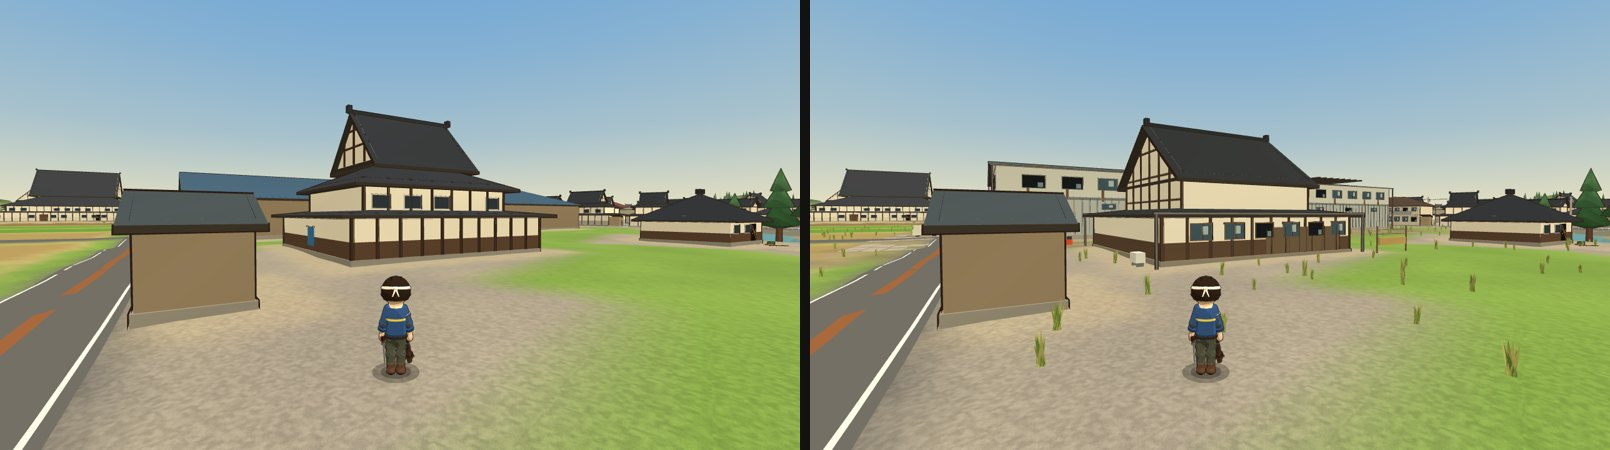
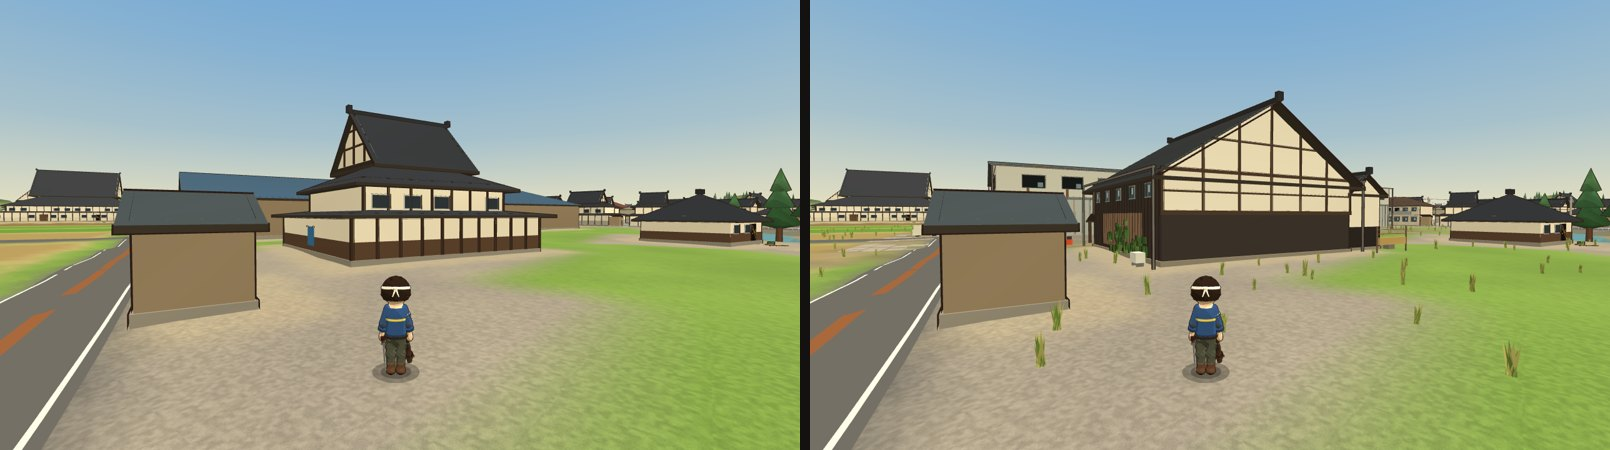
P3-A 報告の更新：回答の記録・屑鉄の案・家並みとスズキの反映・比較画像（B3 を追加）・性能・回帰テスト
Claude-Session: https://claude.ai/code/session_01L9Z7sRJGJCfBXsbyK8HGuW

Changed region(s): [[0.6522, 0.1867, 0.8696, 0.5911]]

diff --git a/docs/p3a-report.md b/docs/p3a-report.md
@@ -66,13 +66,15 @@
 - **部屋の並びは案。** 指示書 §27-5 のとおり確定しない。
 
 ### B：周辺住宅（`p3aHouse`・`p3aBuildHouses`）
-- 本部の南の通り（道551）沿いの8棟だけ、種類を分けて作り直した：農家（2階建て・平屋）・現代の家2種・農業倉庫（納屋）・車庫・物置・店。
-  - 農家：白壁・柱・腰板・黒い瓦・引き戸の玄関と庇・閉まったままの雨戸・2階建ては低い下屋の上に2階の壁と**束と貫の格子の妻壁**（福井県「ふくいの伝統的民家」の永平寺町の農家の説明に寄せた）。庭に松・灯油タンク・耕運機・稲架。
+- 本部の近くの8棟だけ、種類を分けて作り直した（2026-11-18 ユーザー回答「種類を混ぜる」）。21:51 の回答のあと、ユーザーがくれた参考画像（§13.2a）に寄せて直した。
+  - **農家（妻入り）**：道に向けた大きな妻壁（白壁に黒い束と貫の格子）、黒い板張りの壁（一部に後から張った茶色の波板）、瓦の切妻（棟は奥へ向かう）、前の深い下屋と格子の引き戸・ガラスの引き戸、2階の窓、**片側の奥に土蔵**（白壁・下は黒い板・瓦の切妻）。庭に松・灯油タンク・耕運機・稲架・**置き去りの軽トラック**・**石垣**、家の前に**コンクリートの用水路**と入口の渡し板。福井県「ふくいの伝統的民家」の永平寺町の農家の説明（妻壁・下屋・土蔵）と参考画像に合わせた。
+  - **町家風（平入り）**：長い面を道に向け、1階の前に通し庇、すりガラスの引き戸と格子戸、波板の壁、2階の窓に手すり。
   - 現代の家：サイディング・寄棟の金属屋根・雪止め・ベランダ・玄関ポーチ・室外機。カーポートに置き去りの車、倒れた自転車、ブロック塀。
-  - 農業倉庫：金属の納屋、半開きの引き戸、トラクター、コンテナ。店：ガラスの正面・日よけ・文字の無い看板・自販機。
-- 通りに側溝と格子のふた、電柱（32mごと。腕木・変圧器）とたるんだ電線、カーブミラー、止まれの標識。
-- **屋内探索へ広げる準備：** どの家も玄関の位置を `P3A.doors`（`future:true`）に登録してある。P3-B で建物ごとの屋内を足せば、入口はそのまま使える。
-- 注意：この8棟は main では「伝統」などの見た目だった。試作では種類を混ぜたので、通りの印象が変わる（§5 の B の比較）。どの種類をどれだけ混ぜるかは決めてほしい（§13）。
+  - **農業倉庫・作業場**：錆びた赤い波板の壁（濃淡の筋）、上は灰色の波板、ガラスの引き戸とシャッター、上の窓、トラクター、コンテナ。
+  - 車庫（シャッター）・物置・店（ガラスの正面・日よけ・文字の無い看板・自販機）。
+- 通りに側溝と格子のふた、電柱（32mごと。腕木2段・変圧器・通信線の箱）と**何本もの電線**（高圧3本・低圧3本・太い通信線1本。たるみに沿ってつないだ）、**バス停の標識**、カーブミラー、止まれの標識。
+- **屋内探索へ広げる準備：** どの家も玄関の位置を `P3A.doors`（`future:true`）に登録してある。P3-B 以降で建物ごとの屋内を足せば、入口はそのまま使える。
+- main ではこの8棟は「伝統」などの見た目だった。試作では種類を混ぜたので、通りの印象が変わる（§5 の B の比較）。
 
 ### C：九頭竜川・河原（`p3aRiverWater`・`p3aBuildRiver`）
 - 範囲：x 6420〜6640・z 300〜540（南岸の約220m）だけ。
@@ -99,6 +101,7 @@
 | A 拠点本部 | (6410, 8.5, 768) → (6370, 3.5, 800)・画角60 | `docs/p3a/cmp_A.jpg` |
 | B 周辺住宅（通り） | (6362, 4.0, 916) → (6372, 2.4, 881)・画角62 | `docs/p3a/cmp_B.jpg` |
 | B2 周辺住宅（農家） | (6318, 3.6, 760) → (6340, 2.0, 787)・画角62 | `docs/p3a/cmp_B2.jpg` |
+| B3 周辺住宅（農家の正面） | (6356, 7.0, 782) → (6340, 3.5, 787.5)・画角72 | `docs/p3a/cmp_B3.jpg` |
 | C 九頭竜川・河原 | (6514, 4.2, 513) → (6528, −1.0, 466)・画角62 | `docs/p3a/cmp_C.jpg` |
 | D 林道・森林 | (5967, 3.4, 1457) → (5925, 3.2, 1413)・画角62 | `docs/p3a/cmp_D.jpg` |
 | 屋内（1階・2階） | プレイ中のカメラ | `docs/p3a/interior.jpg` |
@@ -119,17 +122,19 @@
 
 ## 7. 性能の比較（STEP 6）
 
-画面のない Chromium（SwiftShader：GPU を使わず CPU で描く）・1280×720・同じカメラで、main（`40f989c`）→ 試作（`p3a-survey`）。描く回数と三角形は、その1枚を描いたときの `renderer.info`。ジオメトリとヒープは、上志比に入ってから A→B→B2→C→D の順に撮った**その時点までの合計**（後の地点ほど前の分を含む）。
+画面のない Chromium（SwiftShader：GPU を使わず CPU で描く）・1280×720・同じカメラで、main（`40f989c`）→ 試作（`p3a-survey` の `74ee5fc`）。描く回数と三角形は、その1枚を描いたときの `renderer.info`。ジオメトリとヒープは、上志比に入ってから A→B→B2→B3→C→D の順に撮った**その時点までの合計**。
 
-| 地点 | 描く回数 | 三角形 | ジオメトリ（累計） | JS ヒープ MB（累計） | FPS（SwiftShader・参考外） |
+| 地点 | 描く回数 | 三角形 | GPU に送ったジオメトリ（累計） | JS ヒープ MB（累計） | FPS（SwiftShader・参考外） |
 |---|---|---|---|---|---|
-| A | 148 → 159（+11） | 829,312 → 879,283（+6%） | 454 → 465 | 210.1 → 231.5 | 5.3 → 7.5 |
-| B | 119 → 133（+14） | 802,216 → 897,053（+12%） | 498 → 515 | 210.5 → 217.8 | 1.3 → 2.2 |
-| B2 | 148 → 156（+8） | 982,978 → 1,026,299（+4%） | 548 → 565 | 210.2 → 218.3 | 0.9 → 1.4 |
-| C | 85 → 93（+8） | 695,674 → 748,442（+8%） | 557 → 576 | 212.5 → 220.6 | 0.9 → 1.3 |
-| D | 132 → 142（+10） | 1,119,244 → 1,439,358（+29%） | 580 → 605 | 212.8 → 221.9 | 1.1 → 1.6 |
+| A | 148 → 159（+11） | 829,312 → 884,627（+7%） | 454 → 577 | 221.9 → 221.5 | 4.3 → 0.9 |
+| B | 120 → 136（+16） | 859,797 → 960,138（+12%） | 498 → 589 | 209.3 → 219.2 | 1.7 → 1.6 |
+| B2 | 154 → 162（+8） | 986,210 → 1,034,875（+5%） | 552 → 605 | 209.6 → 218.3 | 1.6 → 1.8 |
+| B3 | 158 → 169（+11） | 922,524 → 977,839（+6%） | 572 → 615 | 209.7 → 218.8 | 1.1 → 1.3 |
+| C | 91 → 99（+8） | 811,156 → 863,924（+7%） | 580 → 625 | 211.2 → 219.7 | 1.2 → 1.1 |
+| D | 132 → 142（+10） | 1,119,244 → 1,439,358（+29%） | 591 → 641 | 213.5 → 221.2 | 1.8 → 1.2 |
 
-- 試作で増えたのは、描く回数 +8〜+14、三角形 +4〜+12%（林道だけ +29%：杉・広葉樹・竹・下草）、ヒープは最初の地点で約+21MB（試作の形・材質・地面の絵）、そのあと約+7〜9MB。
+- 試作で増えたのは、描く回数 +8〜+16、三角形 +5〜+12%（林道だけ +29%：杉・広葉樹・竹・下草）、ヒープは約 +0〜10MB。
+- 「GPU に送ったジオメトリ」は、それまでに画面に映った物の数なので、見た向きや順で変わる（同じ地点でも撮り方で数十変わる）。場面にある形の数そのものは、main の家と試作の家で同じ（上志比の場面で 2493 個。計測）。
 - **FPS は参考にならない**（CPU で描くので 1〜8。実機の GPU とは桁が違う）。
 - **iPhone 実機では計測していない（未確認）。** PC の実機（GPU）でも計測していない。実機では F11 の計測（`btnPerf`）で同じ地点を見てほしい。
 - 林道の三角形が多いのは、試作の木（約420本）を近くでだけ描く形にしていても、全部を1回で描いているため。全域に広げるなら、遠くは今の円錐の木に切り替える（LOD）必要がある。
@@ -205,12 +210,14 @@
 
 画面のない Chromium で確かめた（`tests` には入れていない試作用の手順）：入口で「中へ入る」が出る → 入ると屋内の (2.2, 8.5) に立ち、上志比の景色は隠れ、地面の高さ0 → 東の壁で止まる（x=7.38、壁は8）・西の入口からは歩いて出られない（「外へ出る」でだけ出る）→ 倉庫の棚・2階・1階・外へ出るがそれぞれ動く → 外では元の位置・地面の高さ・当たり判定が戻る → 光明寺へ移ると屋内の当たり判定は0個、上志比へ戻ると入口9・試作の物10・釣り場3がまた作られる。エラーなし。
 
+**スズキと一緒に入る（2026-11-18 ユーザー回答のあと試作に反映）：** スズキを仲間にして入口へ → 入るとスズキも屋内の主人公の後ろ（約2.7m）に出て、屋内でも歩ける・ついて来る → 2階へ上がるとスズキも2階へ、1階へ戻ると1階へ → 外へ出るとスズキも外の主人公の後ろへ（約3.5m）→ 「待って」と言ってから入ると、スズキは外のその場に残り、出てきたときも同じ場所にいる。どれも画面のない Chromium で確かめた（`tests` には入れていない試作用の手順）。
+
 ### P3-B へ広げるときの案
 | 仕組み | 案 | 今の試作 |
 |---|---|---|
 | 屋内の作り方 | 試作の関数を、建物の番号（`bld` の番号＋OSM の way）ごとの**間取りの表**（部屋・壁・家具・調べる所）から作る形にする | 本部の1つだけ、関数に直接書いている |
 | 入口 | 試作で登録した入口（本部1・家8）を正式な入口の表にする。KEI truck は外に残す | 本部だけ入れる。家8軒は登録だけ |
-| スズキ | 入口の外で待つ／一緒に入る（**決めてほしい**） | 対応していない（**未確認**） |
+| スズキ | **一緒に入る**（2026-11-18 ユーザー回答）。ついて来ているときは入る・階段・出るたびに主人公の後ろへ移す。待たせているとき・倒れているときは外に残る。屋内ではスズキの歩ける範囲も屋内の場にする | **試作に反映**（下の確かめ） |
 | 獣 | 屋内にいる間、外の獣は見失う。出た直後の数秒は襲われないようにする | 外の獣は距離で見失う（入口の前に戻ったときの扱いは未対応） |
 | 時間・天気 | 屋内でも進む | そのまま進む |
 | 地図・ミニマップ | 屋内は間取り図か、表示しない | 空白になる |
@@ -229,21 +236,29 @@
 
 ## 11. 回帰テスト
 
-試作の最後のコード（`4105c3d`。§12）で実行。画面のない Chromium（SwiftShader）。
-
+### 11.1 2026-11-18 夜（家並みを参考画像に寄せ、スズキを屋内へ連れて入るようにしたあと。`74ee5fc`）
 | テスト | 結果 |
 |---|---|
-| `node tests/chapter2-save.cjs`・`chapter2-defense`・`classic-body`・`death-penalty`・`combat-aim`・`truck-physics` | 6本とも通過 |
+| `node tests/` の6本（chapter2-save・chapter2-defense・classic-body・death-penalty・combat-aim・truck-physics） | 通過 |
+| `region-browser.py` | 1回目は「つづきから」の確かめで不通過（ほかの計測を同時に動かしていた）。単独でやり直して通過 |
+| `kamishihi-browser.py` | 「建物833軒の当たり判定」の1か所だけ不通過（試作による想定どおりの差：差し替えた9棟が抜け、試作の当たり（本部・家・土蔵・倒木など）が入る）。ほかの12項目は通過 |
+| `kami-wild-browser.py`・`kami-fort-browser.py`・`kami-watch-browser.py` | 通過 |
+| `suzuki-browser.py` | 通過 |
+| `suzuki-save-browser.py` | 3回のうち2回、「つづきから」のボタンを押す所で30秒の時間切れ（止まった場所は毎回ちがう）。3回目に13項目すべて通過。main `40f989c` も同じ日に1回動かして通過。この作業環境（CPU 2つ・画面のない Chromium）では重くて揺れると見ているが、**試作が原因でないとは言い切れない**ので、main に入れる前にもう一度確かめる |
+| 屋内とスズキの試作用の手順（§9） | 通過 |
+
+### 11.2 2026-11-18 夕方（最初の報告。`4105c3d`）
+| テスト | 結果 |
+|---|---|
+| `node tests/` の6本 | 通過 |
 | `region-browser.py` | 通過 |
-| `kamishihi-browser.py` | **1か所だけ不通過（試作による想定どおりの差）**：「建物833軒の当たり判定」の数え方が「建物1軒に当たりの箱1つ」なので、試作で差し替えた9棟が抜け、試作の当たり15個（本部・家・倒木など）が入って 833−9+15=839 になる。ほかの12項目（3往復しても元どおり・形とテクスチャが残らない・セーブ・エラーなし など）は通過。試作を main に入れるときは、このテストの数え方を直す |
+| `kamishihi-browser.py` | 上と同じ1か所だけ不通過（833−9+15=839） |
 | `kami-wild-browser.py`・`kami-fort-browser.py` | 通過 |
-| `kami-watch-browser.py` | 3回のうち1回、「近くの仲間3体が順に集まる」で2体だけになり不通過。続けて2回実行して2回とも通過（巡回の位置の巡り合わせで揺れる。要塞は x 7250〜7340 で試作の場所から約900m 離れている）。main でも同じ揺れが起きるかは未確認 |
-| `suzuki-save-browser.py` | 通過（1回目は他の計測と同時に動かして「つづきから」を押す所で時間切れ。単独でやり直して通過） |
-| `kei-truck-glb-browser.py`・`story-f-browser.py`・`kei-truck-systems-browser.py`・`hud-layout-browser.py` | 通過（`4105c3d` の1つ前の試作のコードで。違いは上志比の建物の作り方だけ） |
-| 屋内の試作の手順（§9） | 通過（入る・壁・入口・2階・1階・外へ・地域の往復・目的の方角を隠す） |
+| `kami-watch-browser.py` | 3回のうち1回、「近くの仲間3体が順に集まる」で2体だけになり不通過。続けて2回通過（要塞は試作の場所から約900m 離れている） |
+| `suzuki-save-browser.py` | 1回目は「つづきから」で時間切れ、単独でやり直して通過 |
+| `kei-truck-glb-browser.py`・`story-f-browser.py`・`kei-truck-systems-browser.py`・`hud-layout-browser.py` | 通過 |
 | 上志比の採集・がれき・獣の置き場の比べ（§10） | main と同じ |
 
-- main `40f989c` の `kamishihi-browser.py` は通過（比べるために実行）。
 - 試遊版（`previews/`）は作り直していない（main に入れるときに作り直す）。
 
 ## 12. 作業ブランチとコミット
@@ -252,7 +267,9 @@
 - `f9a3b16` 4地点の試作と屋内の試案（最初の形）
 - `67574f0` 草を道路に生やさない・岩・釣り場の岩・2階建て農家・屋内の範囲と入口の当たり・屋内で方角を出さない
 - `4105c3d` 差し替えた建物も壊れた家の一覧に入れる（がれきの番号を main と同じに）・農家の妻壁
-- この報告と比較画像（`docs/p3a-report.md`・`docs/p3a/`・`CLAUDE.md` の文書表）は、この次のコミット。
+- `df773df` 最初の報告と比較画像
+- `74ee5fc` 参考画像に寄せた家並み（妻入りの農家と土蔵・町家風・錆びた作業場・用水路・軽トラ・石垣・電線とバス停）・スズキも屋内へ・回答と屑鉄の案を記録
+- この報告の更新と比較画像の撮り直しは、この次のコミット。
 
 ## 13. P3-B へ進む前に決めてほしいこと・未解決の事項
 
@@ -296,7 +313,7 @@
 ### 13.3 未解決・未確認
 - **iPhone 実機では一度も確かめていない**（重さ・操作・見た目）。PC の実機でも確かめていない（画面のない Chromium だけ）。
 - FPS は画面のない Chromium（SwiftShader、CPU で描く）の数で、実機の目安にならない。
-- 屋内でスズキ・獣・倒れたときの動きは**未確認**（§9）。
+- 屋内でスズキと一緒に入る・出る・階を移るのは確かめた。屋内で獣が来たとき・倒れたとき・スズキが屋内で倒れたときは**未確認**（試作の屋内には獣が出ない）。
 - 屋内の壁がプレイヤーを隠すことがある（カメラの手前の壁を低くする処理は未実装）。
 - main でも、光明寺と上志比を3往復すると光明寺での描く回数が 155 → 662 に増える（`kamishihi-browser.py` の記録。main `40f989c` でも同じ数なので P3-A の影響ではない。原因は未調査）。
 - 河原の試作は範囲の四角の中だけで、端で main の平らな水面に切り替わる。
